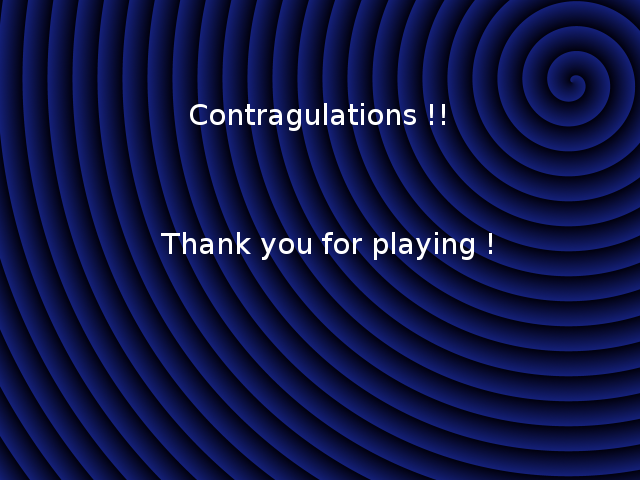
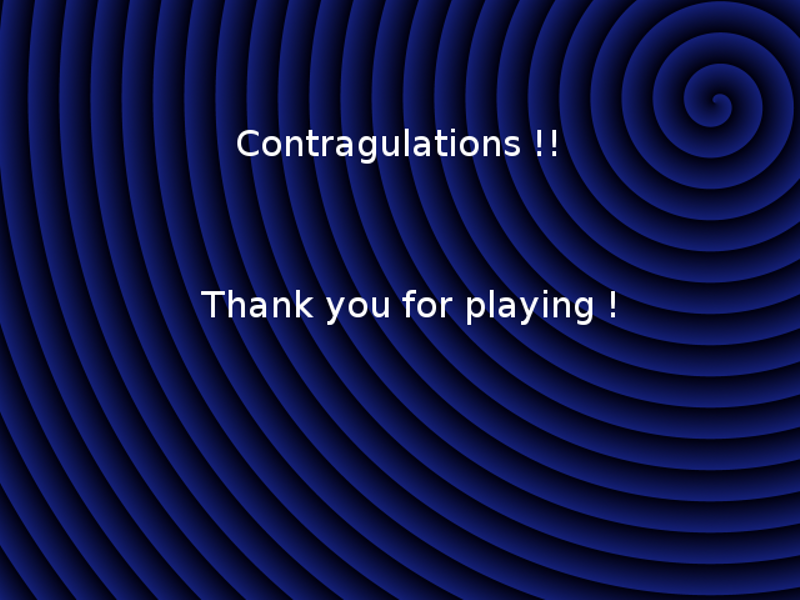
Gui is now 800x600 in resolution

Changed region(s): [[0.2812, 0.2188, 0.7188, 0.2812], [0.25, 0.4688, 0.7812, 0.5312]]

diff --git a/src/gui/gui.rb b/src/gui/gui.rb
@@ -37,8 +37,8 @@ class GameWindow
   attr_reader :puzzle, :font
 
   # Maximum dimension of puzzles
-  H = 10
-  W = 16
+  H = 14
+  W = 21
 
   # ---------------------------------
   # SDL Specific part
@@ -88,21 +88,57 @@ class GameWindow
   # ------------------------
   # Relatively framework-agnostic part of the game
 
+  SCREEN_W = 800
+  SCREEN_H = 600
+
+  TILE_SIZE = 32
+  WINDOW_OFF_X = 20
+  WINDOW_OFF_Y = 20
+
+  RECTANGLE_OFF = 5
+
+  QUOTE_TEXT_X = 50
+  QUOTE_TEXT_Y = 110
+
+  QUOTE_AUTHOR_X = 450
+  QUOTE_AUTHOR_Y = 400
+
+  QUOTE_TEXT_ZONE_W = 300
+  QUOTE_AUTHOR_ZONE_W = 200
+
+  START_TEXT_X = 50
+  START_TEXT_Y = 450
+
+  BOOTS_UI_X = 738
+  BOOTS_UI_Y = 25
+  BOOTS_UI_DELTA = 25
+
+  BOOTS_MAX_COUNT = 3
+
+  BUTTONS_X = 710
+  BUTTONS_Y = 205
+  BUTTONS_W = 70
+  BUTTONS_H = 30
+  BUTTONS_DELTA = 5
+
+  MESSAGE_ZONE_W = 750
+  MESSAGE_ZONE_H = 110
+
   def initialize(props)
-    init_screen(640,480)
+    init_screen(SCREEN_W,SCREEN_H)
 
     @prefix = props[:prefix] || "."
 
     @font = load_default_font()
 
-    @fitter = TextFitter.new(@font, 600)
+    @fitter = TextFitter.new(@font, MESSAGE_ZONE_W)
     @message_cutter = TextCutter.new(@fitter)
     @text_h = @font.height
 
-    @quote_text_fitter = TextFitter.new(@font, 300)
+    @quote_text_fitter = TextFitter.new(@font, QUOTE_TEXT_ZONE_W)
     @quote_text_cutter = TextCutter.new(@quote_text_fitter)
 
-    @quote_author_fitter = TextFitter.new(@font, 200)
+    @quote_author_fitter = TextFitter.new(@font, QUOTE_AUTHOR_ZONE_W)
     @quote_author_cutter = TextCutter.new(@quote_author_fitter)
 
     @last_message = nil
@@ -133,7 +169,7 @@ class GameWindow
   end
 
   def init_buttons
-    @buttons = ButtonGroup.new(550, 205, 70, 30, 5)
+    @buttons = ButtonGroup.new(BUTTONS_X, BUTTONS_Y, BUTTONS_W, BUTTONS_H, BUTTONS_DELTA)
 
     @buttons.add_button("Quit") do 
       quit
@@ -256,9 +292,9 @@ class GameWindow
   # TODO : RENAME "draw_all"
   def draw_puzzle
 
-    @x0 = 20
-    @y0 = 20
-    @s = 32
+    @x0 = WINDOW_OFF_X
+    @y0 = WINDOW_OFF_Y
+    @s = TILE_SIZE
 
     draw_background
 
@@ -295,7 +331,8 @@ class GameWindow
   def draw_background
     draw_to_screen(@bg_image, 0, 0)
     # Draw a rectangle around the game area
-    draw_rectangle(@x0-5, @y0-5, @x0 + W*@s + 5, @y0 + H*@s + 5, @white)
+    d = RECTANGLE_OFF
+    draw_rectangle(@x0-d, @y0-d, @x0 + W*@s + d, @y0 + H*@s + d, @white)
   end
 
   def to_screen_coords(i,j)
@@ -333,21 +370,21 @@ class GameWindow
       draw_rectangle(b.x, b.y, b.x + b.w, b.y + b.h, @white)
       # TODO : nicely compute the ideal x position, assuming
       # the button is whide enough
-      draw_text_line(b.label, b.x + 5, b.y + 5, @white)
+      draw_text_line(b.label, b.x + RECTANGLE_OFF, b.y + RECTANGLE_OFF, @white)
     end
   end
 
   # Draw the part of the UI where the current boot is displayed
   def draw_boots_ui
-    @boots_ui_x0 = 580
-    @boots_ui_y0 = 25
-    interval = 25
+    @boots_ui_x0 = BOOTS_UI_X
+    @boots_ui_y0 = BOOTS_UI_Y
+    interval = BOOTS_UI_DELTA
 
     x = @boots_ui_x0
     y = @boots_ui_y0
 
     # Draw a nice line around everything
-    draw_rectangle(x-10, y-10, x + @s + 10, y + 5 + (@s*3) + (interval*2) + 10, @white)
+    draw_rectangle(x-10, y-10, x + @s + 10, y + 5 + (@s*BOOTS_MAX_COUNT) + (interval*2) + 10, @white)
 
     # Draw each boots, surrounding the selected one
     @puzzle.player.each_boots do |boot, selected|
@@ -358,7 +395,7 @@ class GameWindow
 
       if (selected)
         # Draw a quad around the selected one ...
-        draw_rectangle(x-5, y-5, x+@s+5, y+@s+5, @white)
+        draw_rectangle(x-RECTANGLE_OFF, y-RECTANGLE_OFF, x+@s+RECTANGLE_OFF, y+@s+RECTANGLE_OFF, @white)
       end
 
       y = y + @s + interval
@@ -369,8 +406,8 @@ class GameWindow
 
   def draw_message_ui
     y0 = @y0 + @s*H + 5 + 10
-    x1 = 620
-    height = 110
+    x1 = @x0 + MESSAGE_ZONE_W + 10
+    height = MESSAGE_ZONE_H
 
     draw_rectangle @x0 - 5, y0, x1, y0 + height, @white
 
@@ -439,11 +476,11 @@ class GameWindow
 
   def draw_quote
     draw_to_screen(@bg_image, 0, 0)
-    safe_draw_text(50,100, @quote_text_cutter, "'#{@puzzle.quote.text}'")
+    safe_draw_text(QUOTE_TEXT_X,QUOTE_TEXT_Y, @quote_text_cutter, "'#{@puzzle.quote.text}'")
     if (@puzzle.quote.author != nil)
-      safe_draw_text(450, 400, @quote_author_cutter , @puzzle.quote.author)
+      safe_draw_text(QUOTE_AUTHOR_X, QUOTE_AUTHOR_Y, @quote_author_cutter , @puzzle.quote.author)
     end
-    safe_draw_text(50, 450, @message_cutter, "(Press Return to start level)")
+    safe_draw_text(START_TEXT_X, START_TEXT_Y, @message_cutter, "(Press Return to start level)")
   end
 
   def toggle_hint!
